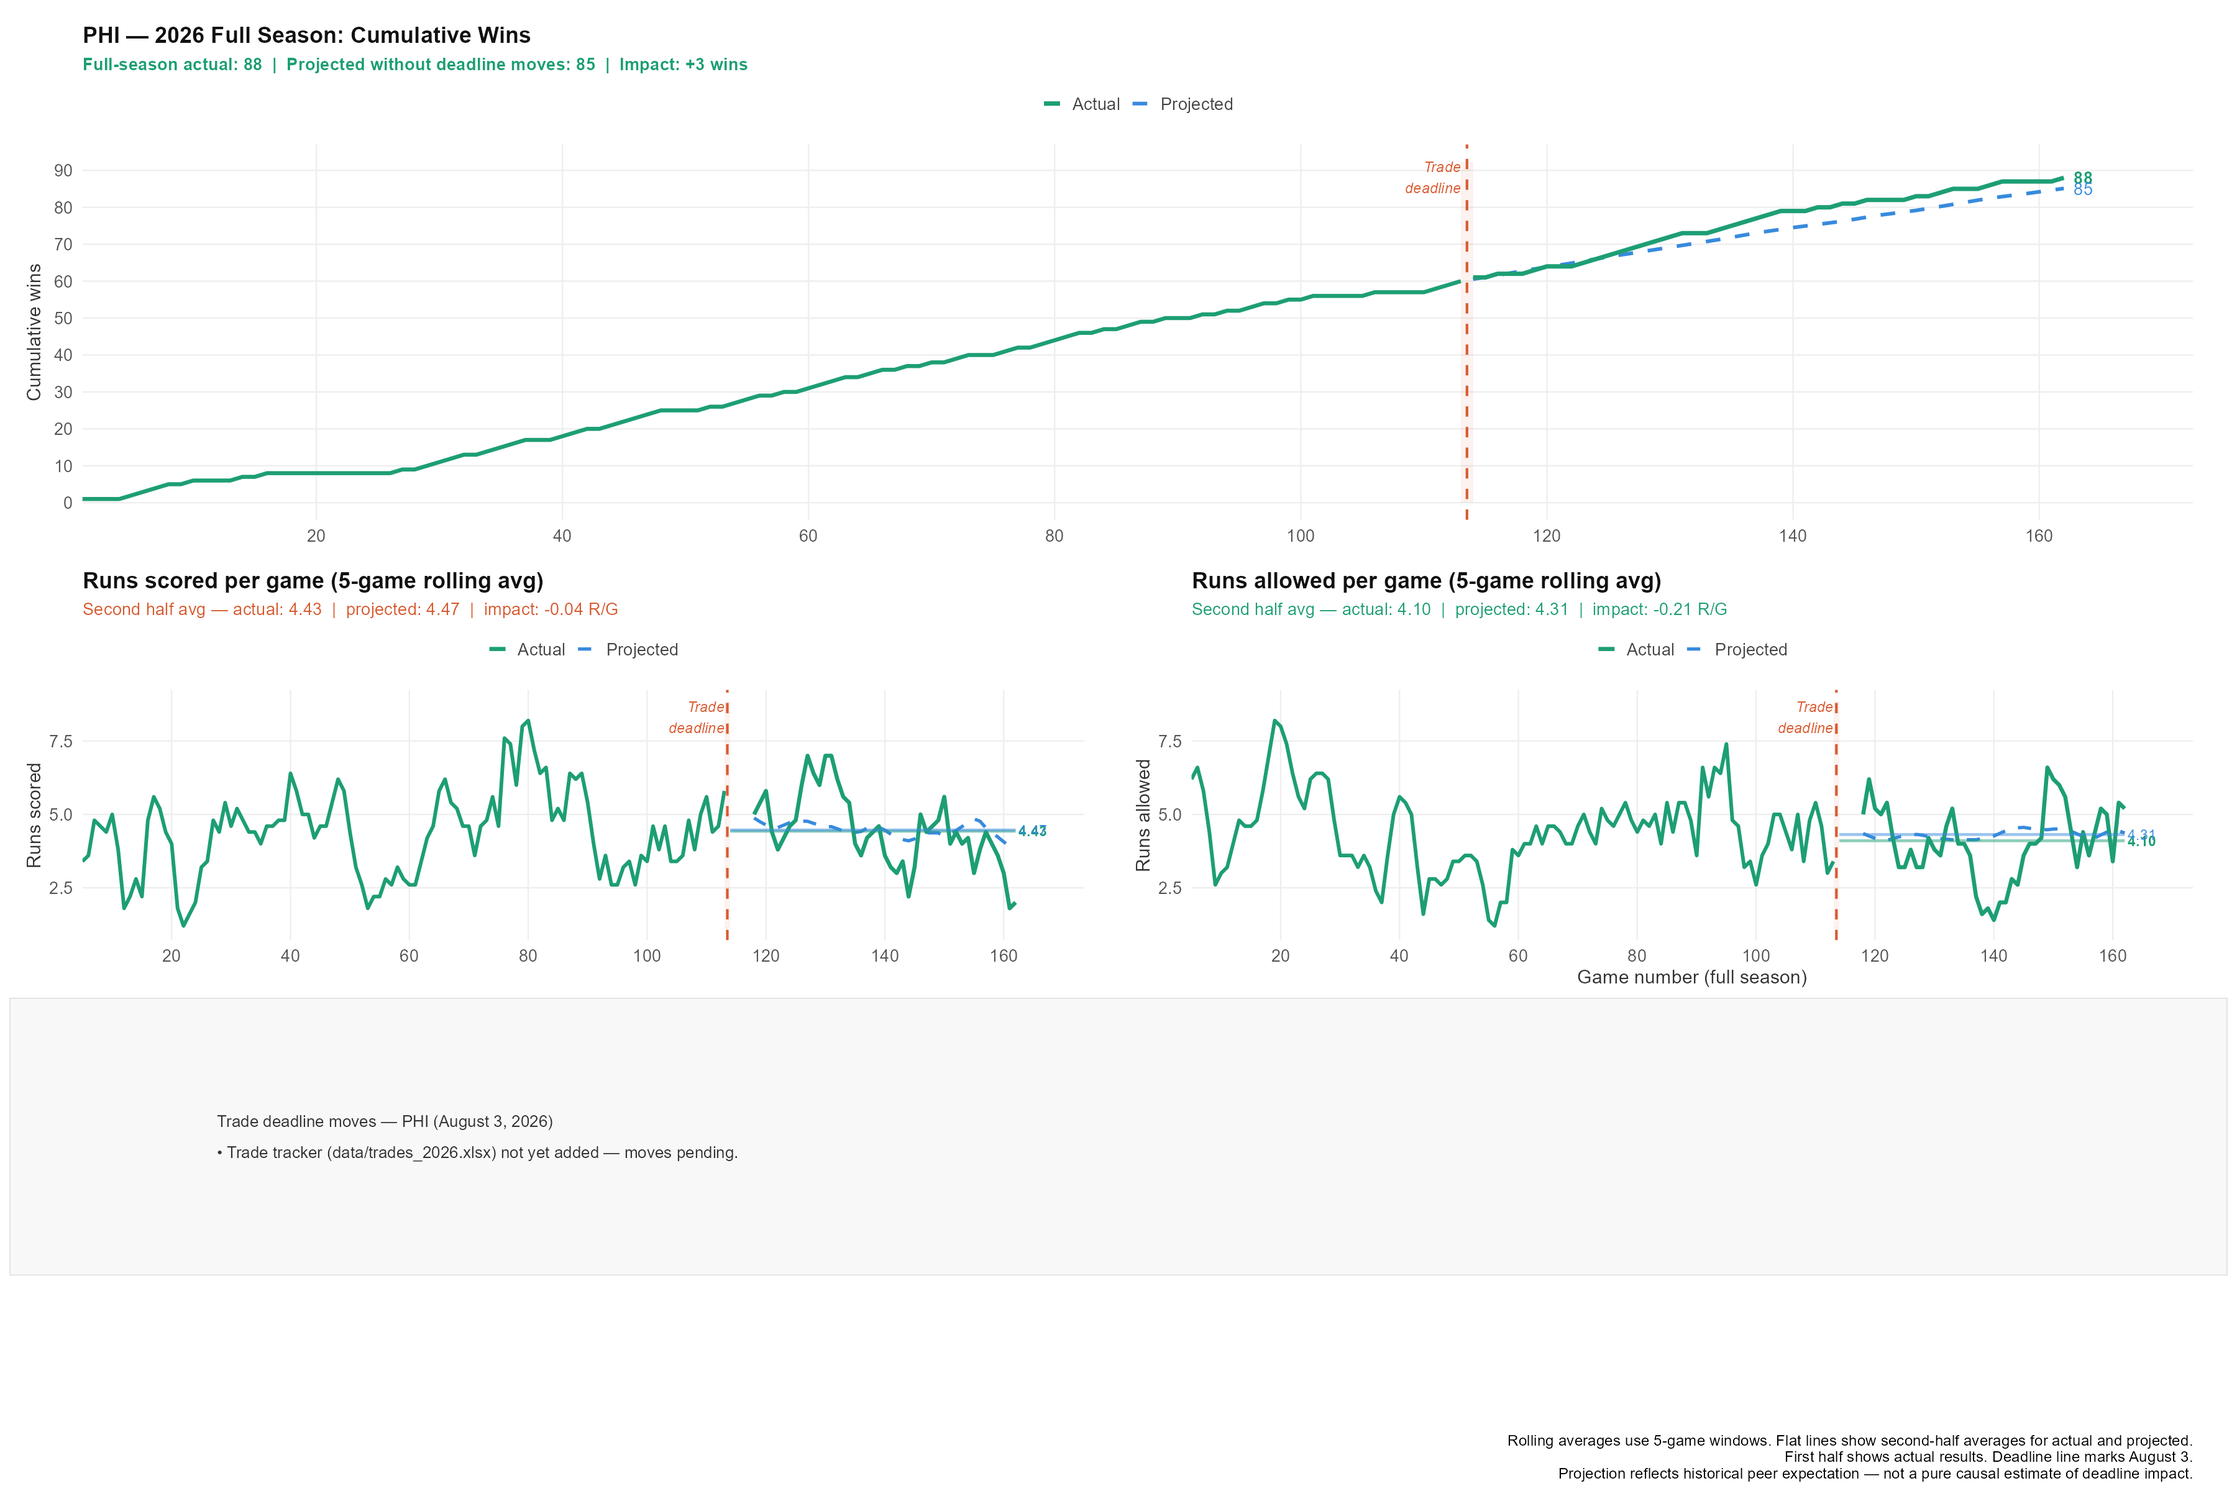
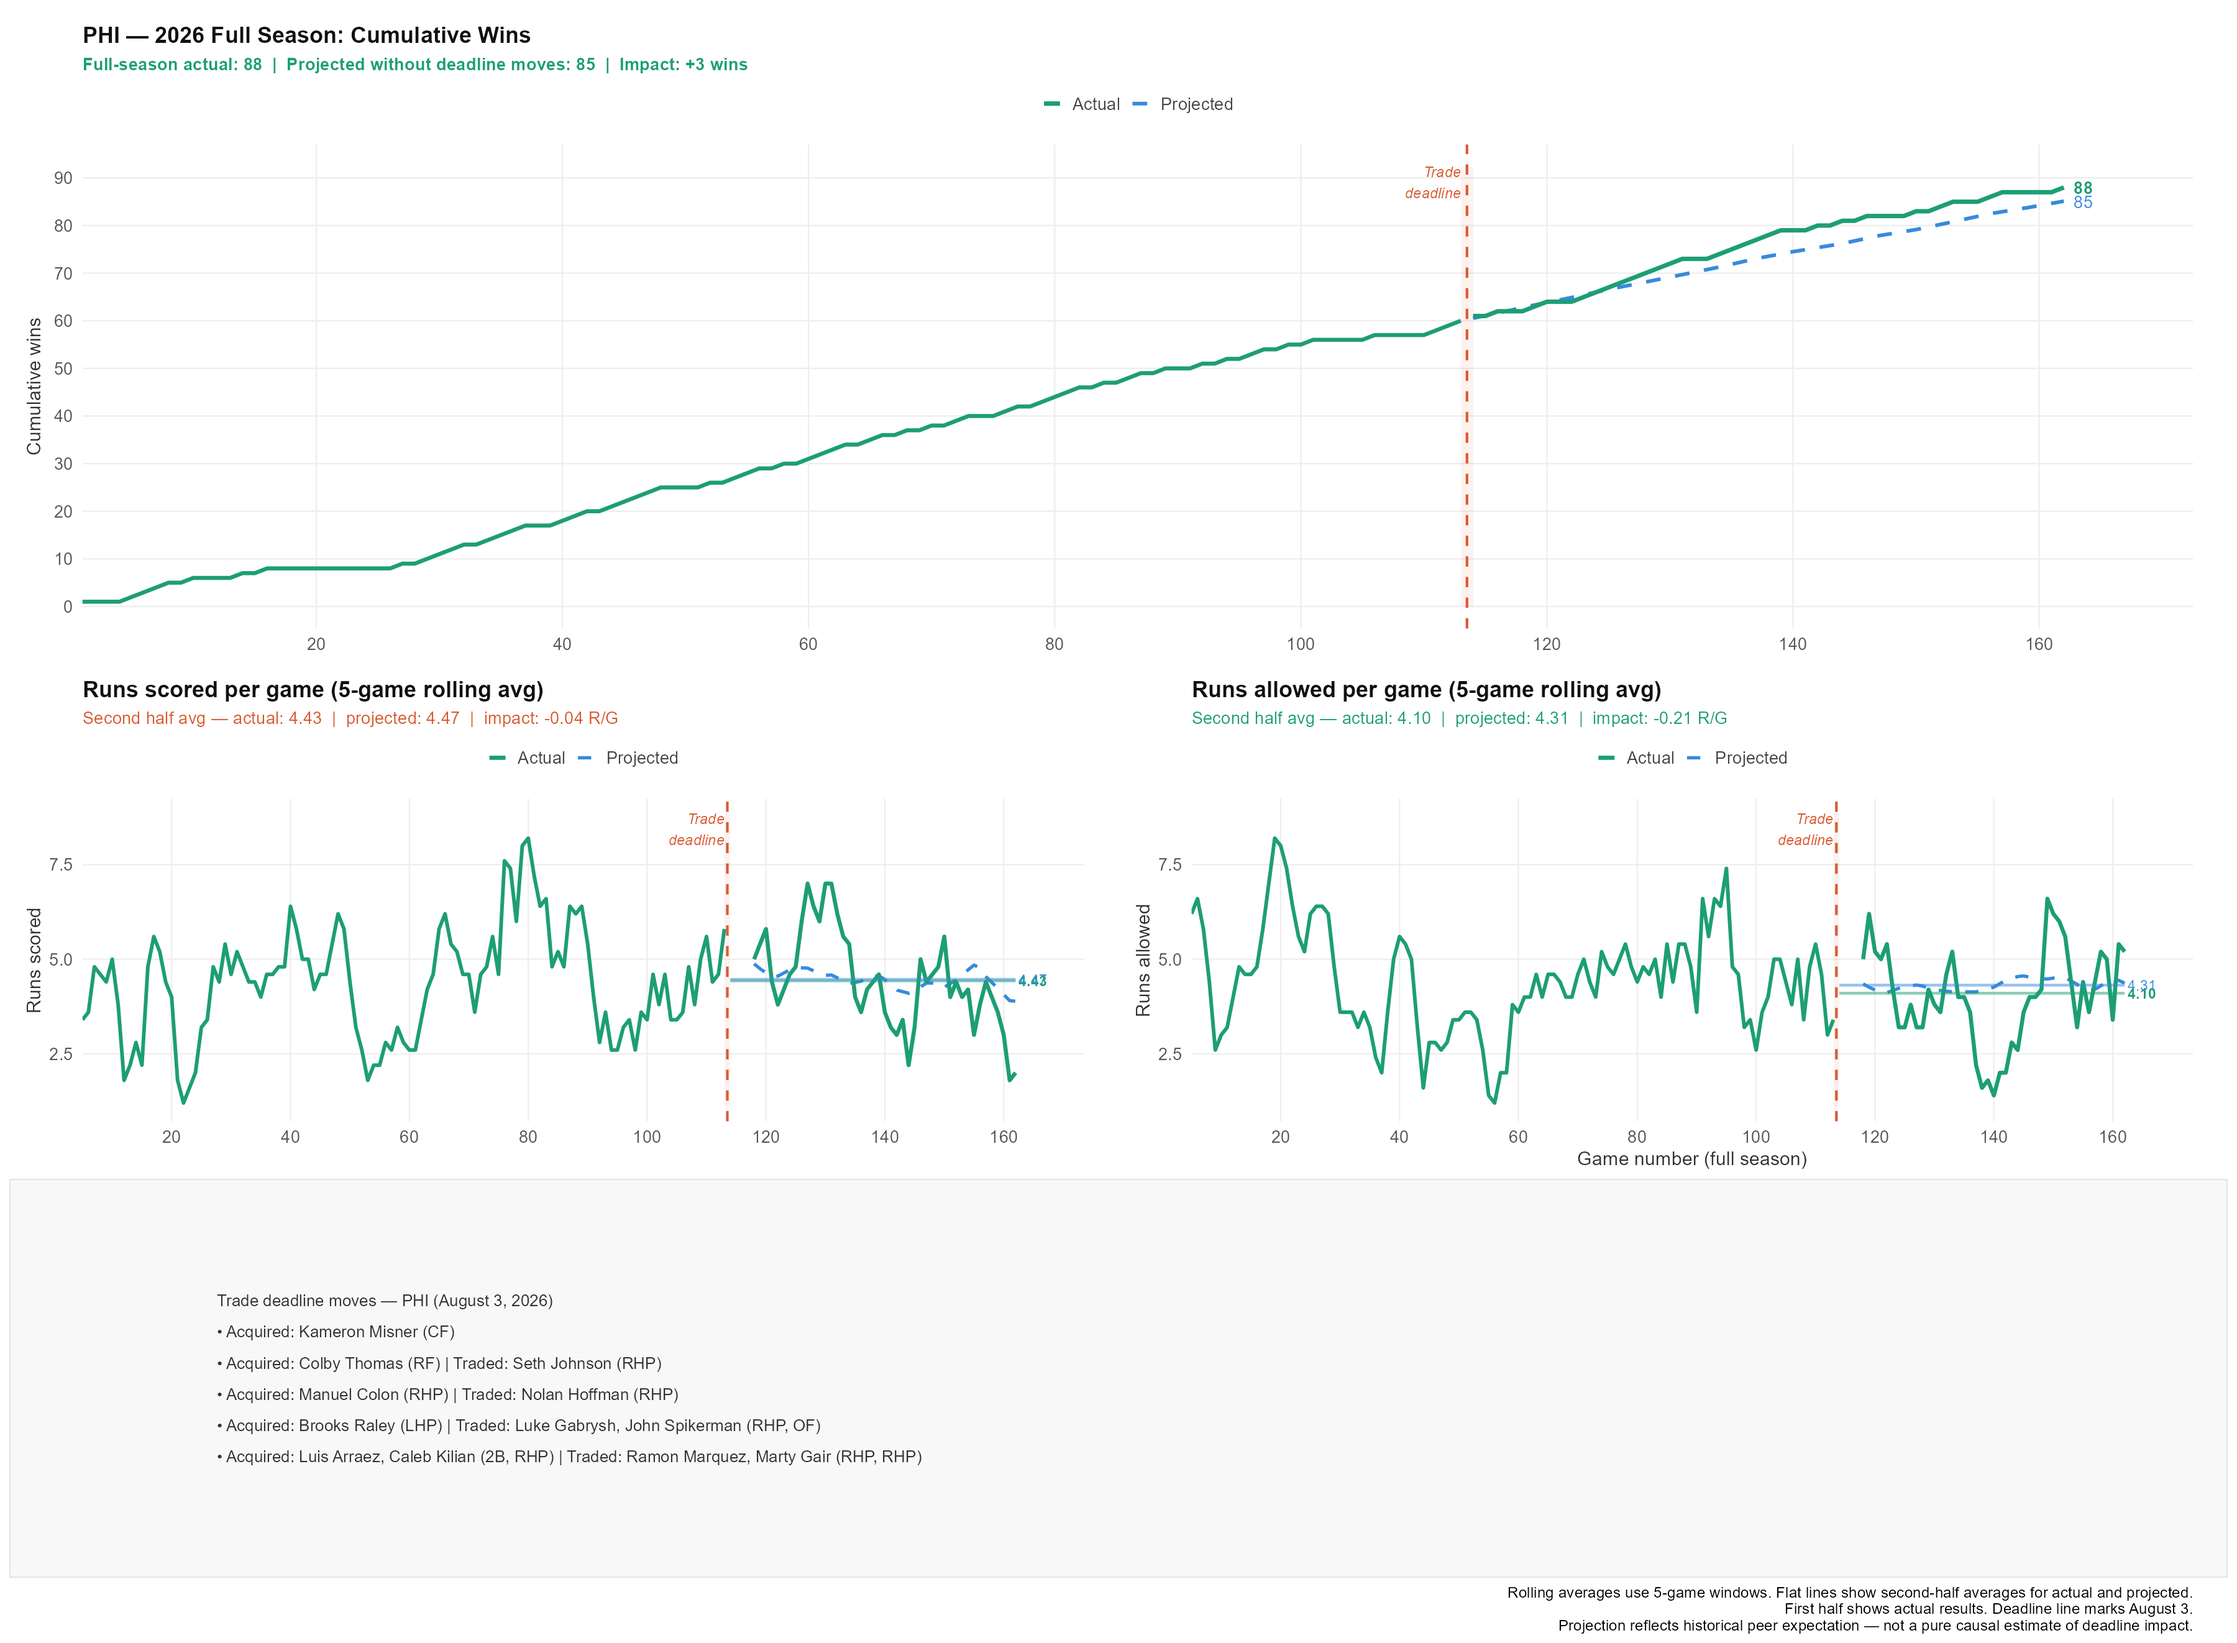
Update README and visualization script for 2026 season: added trade tracker details and adjusted plot layout for trade moves

diff --git a/2026/README.md b/2026/README.md
@@ -5,7 +5,7 @@ The same modeling approach as [`2025/`](../2025/), rebuilt with a cleaner number
 ## Status
 
 - **Done:** scraping, feature engineering, model training/tuning, post-deadline projections (made Aug 3), and end-of-season validation of those projections.
-- **Pending:** the trade-deadline tracker `data/trades_2026.xlsx` hasn't been added yet. The per-team ITS panels in `model-validation/its-panels/` currently show a placeholder in their "deadline moves" box. Add the tracker and re-run `17_2026_season_validation.R` to fill them in. `12_team_projection_panels.R` also reads it.
+- **Trade tracker:** `data/trades_2026.xlsx` (gitignored with the rest of `data/`) lists the 66 trades made Jul 20 – Aug 3, 2026, the two weeks before the deadline. It uses the same layout as the 2025 tracker. The trade list comes from [MLB Trade Rumors' 2026 trade tracker](https://www.mlbtraderumors.com/2026/08/2026-mlb-trade-tracker.html). Dates, positions and name spellings come from the official MLB Stats API transactions feed, which confirms every player's move and direction. The file's `Sources` sheet records the details and the two corrections made to the MLB Trade Rumors list.
 
 ## 2026 results
 
